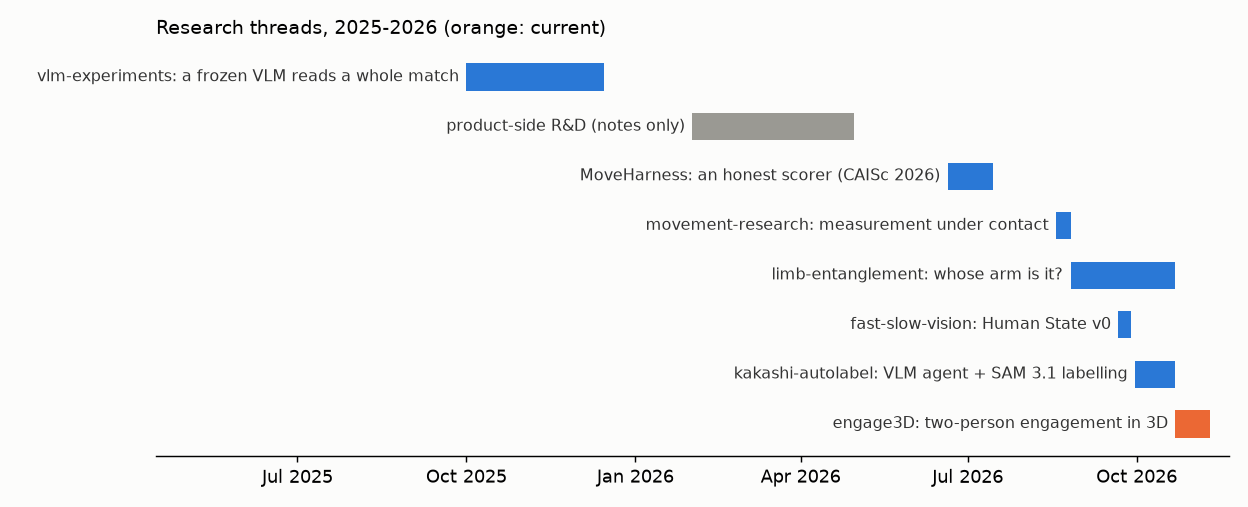
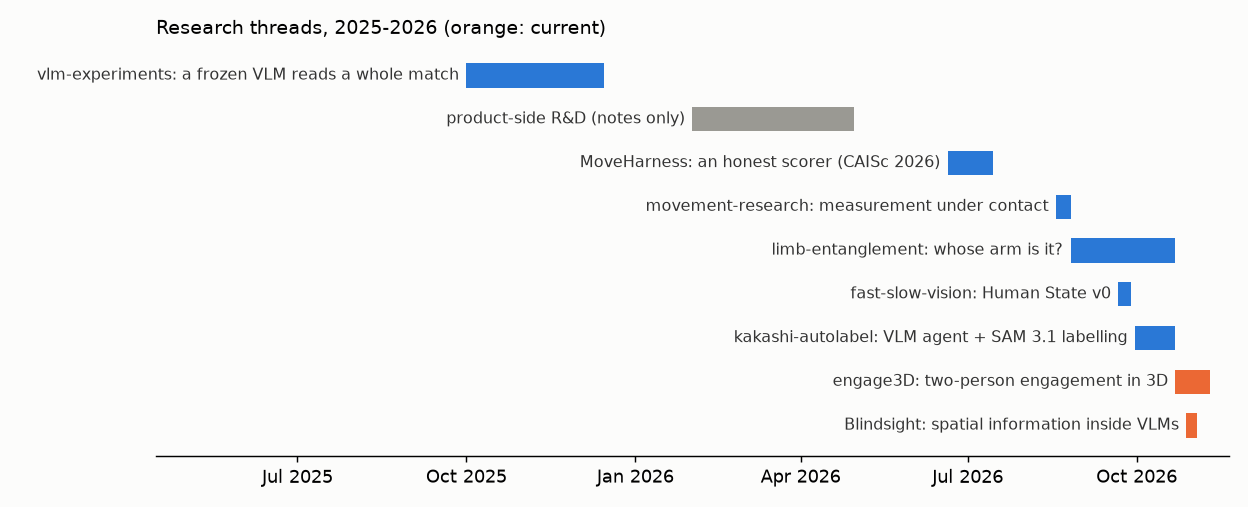
Index: add vlm-spatial-probe (Blindsight) and its private features dataset; timeline
Claude-Session: https://claude.ai/code/session_01R8R5qMPz28uLU3q7Kvm8mo

Changed region(s): [[0.3438, 0.2071, 0.9688, 0.8876], [0.0312, 0.1183, 0.4688, 0.1775]]

diff --git a/tools/make_timeline.py b/tools/make_timeline.py
@@ -13,6 +13,7 @@ THREADS = [  # name, start, end, colour (blue: research repo, grey: notes only, 
     ('fast-slow-vision: Human State v0', date(2026, 9, 21), date(2026, 9, 28), '#2a78d6'),
     ('kakashi-autolabel: VLM agent + SAM 3.1 labelling', date(2026, 9, 30), date(2026, 10, 22), '#2a78d6'),
     ('engage3D: two-person engagement in 3D', date(2026, 10, 22), date(2026, 11, 10), '#eb6834'),
+    ('Blindsight: spatial information inside VLMs', date(2026, 10, 28), date(2026, 11, 3), '#eb6834'),
 ]
 fig, ax = plt.subplots(figsize=(9.6, 3.9), facecolor='#fcfcfb')
 ax.set_facecolor('#fcfcfb')

diff --git a/README.md b/README.md
@@ -20,11 +20,13 @@ kept; that is why they were all created on 26 October 2026, when publishing bega
 | [fast-slow-vision](https://github.com/dhruvinci/fast-slow-vision) | Sep 2026 | Can a small fast model describe people well enough for a slow one to reason on? | Not yet: controls fail (answer follows the letter, not the person); a DINOv2 posture readout holds up |
 | [kakashi-autolabel](https://github.com/dhruvinci/kakashi-autolabel) | Sep–Oct 2026 | Can a VLM agent plus SAM 3.1 label combat video at scale? | 485,028 person masks over 1,526 intervals; human review finds 52-70% fully right, below every AI audit |
 | [engage3d](https://github.com/dhruvinci/engage3d) | Oct 2026– | Measure two-person engagement in 3D from one camera | Distance error between the two athletes 11.2 -> 3.2 cm on held-out sequences; limbs inside tangles remain |
+| [vlm-spatial-probe](https://github.com/dhruvinci/vlm-spatial-probe) | Oct 2026 | Blindsight: Vision-Language Models Know More About Space Than They Say. Do they hold the measurements (depth, size, position) their answers leave out? | Yes inside, not in the answer: the object's word holds depth (abs-rel 0.17, near the vision tower's 0.16), the spoken depth is no better than a name-only guess (0.38); a read-out does not transfer to unseen scene types |
 
 ## Models and data
 - **Models (public, Hugging Face):** [`0xdhruva/engage3d-placement-v1`](https://huggingface.co/0xdhruva/engage3d-placement-v1).
 - **Datasets (private, available on request):** MoveBench v0; labels for Kakashi-labelled combat-sports videos from
-  public sources (catalogue, person masks, positions, events, technique segments; no media).
+  public sources (catalogue, person masks, positions, events, technique segments; no media); the VLM spatial probe's
+  extracted features and answers (no images).
 - Hugging Face profile: [0xdhruva](https://huggingface.co/0xdhruva).
 
 ## How the work is run
